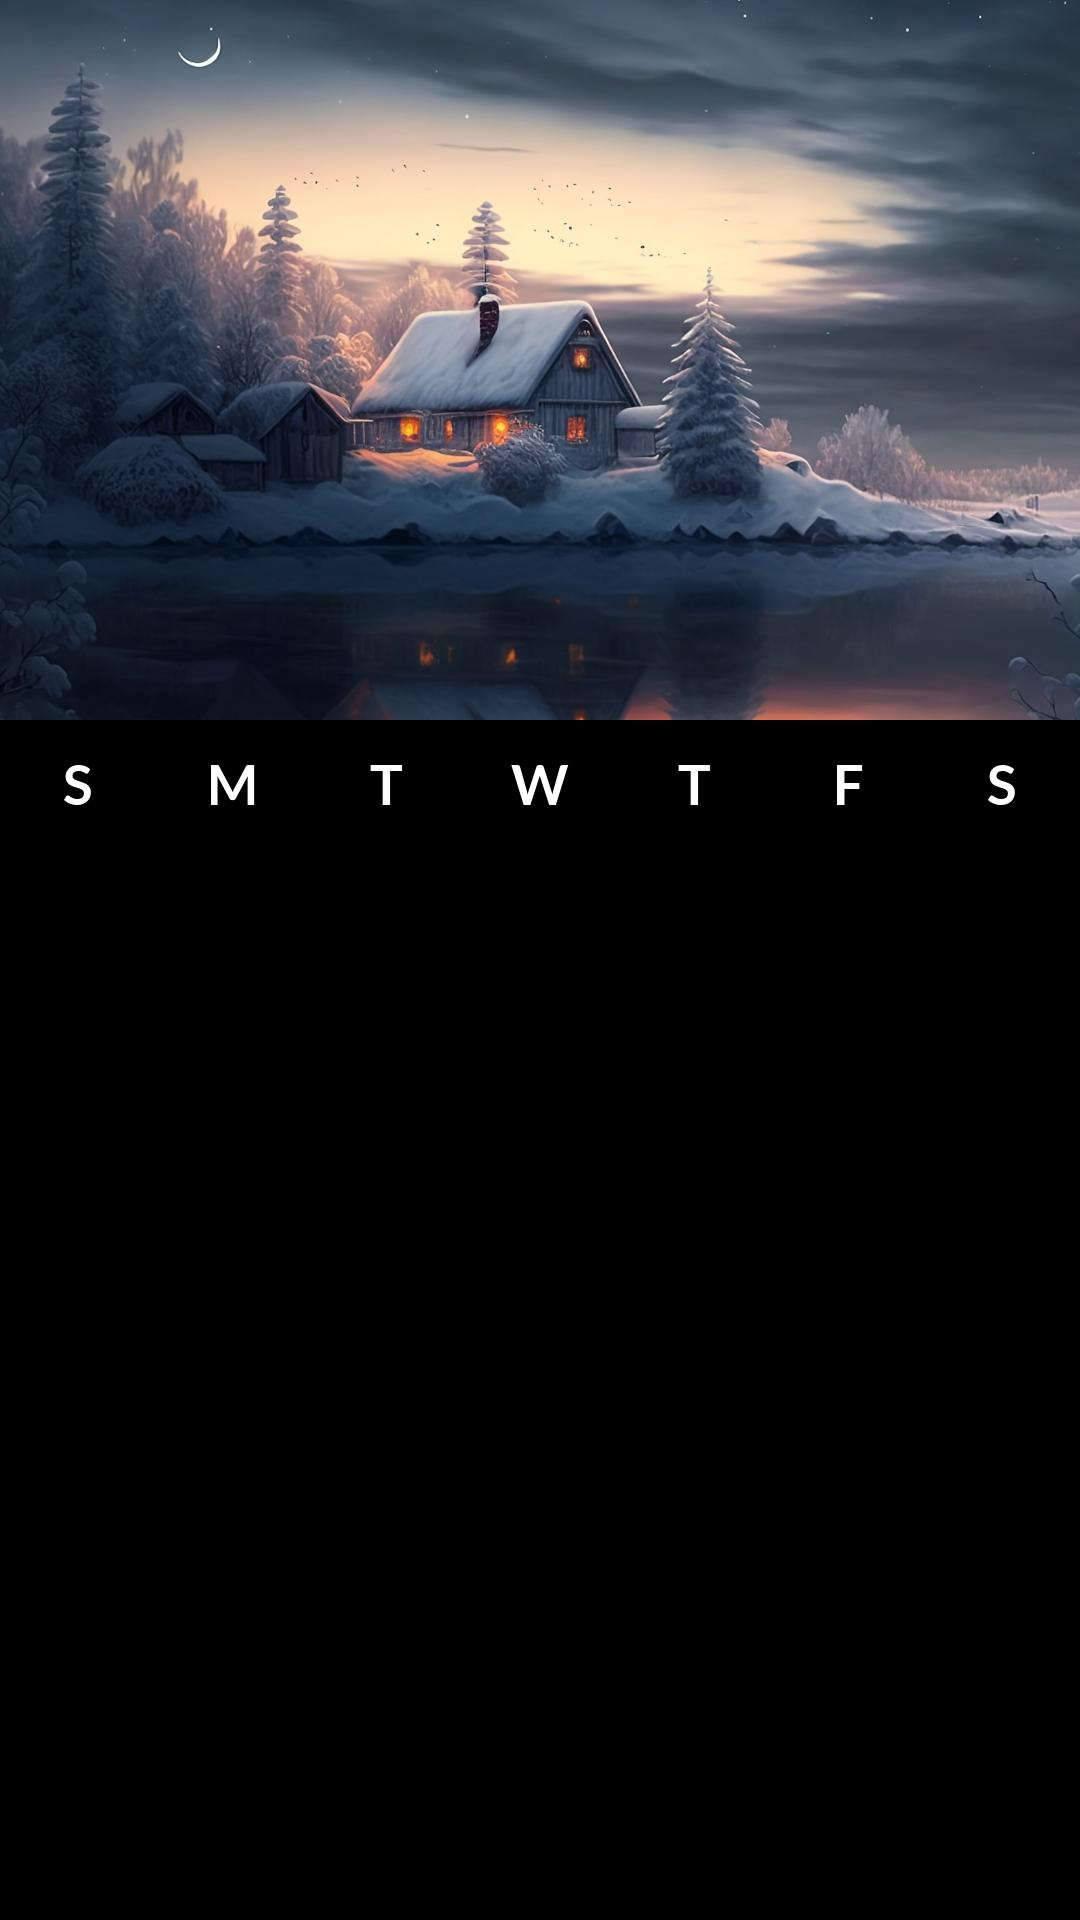
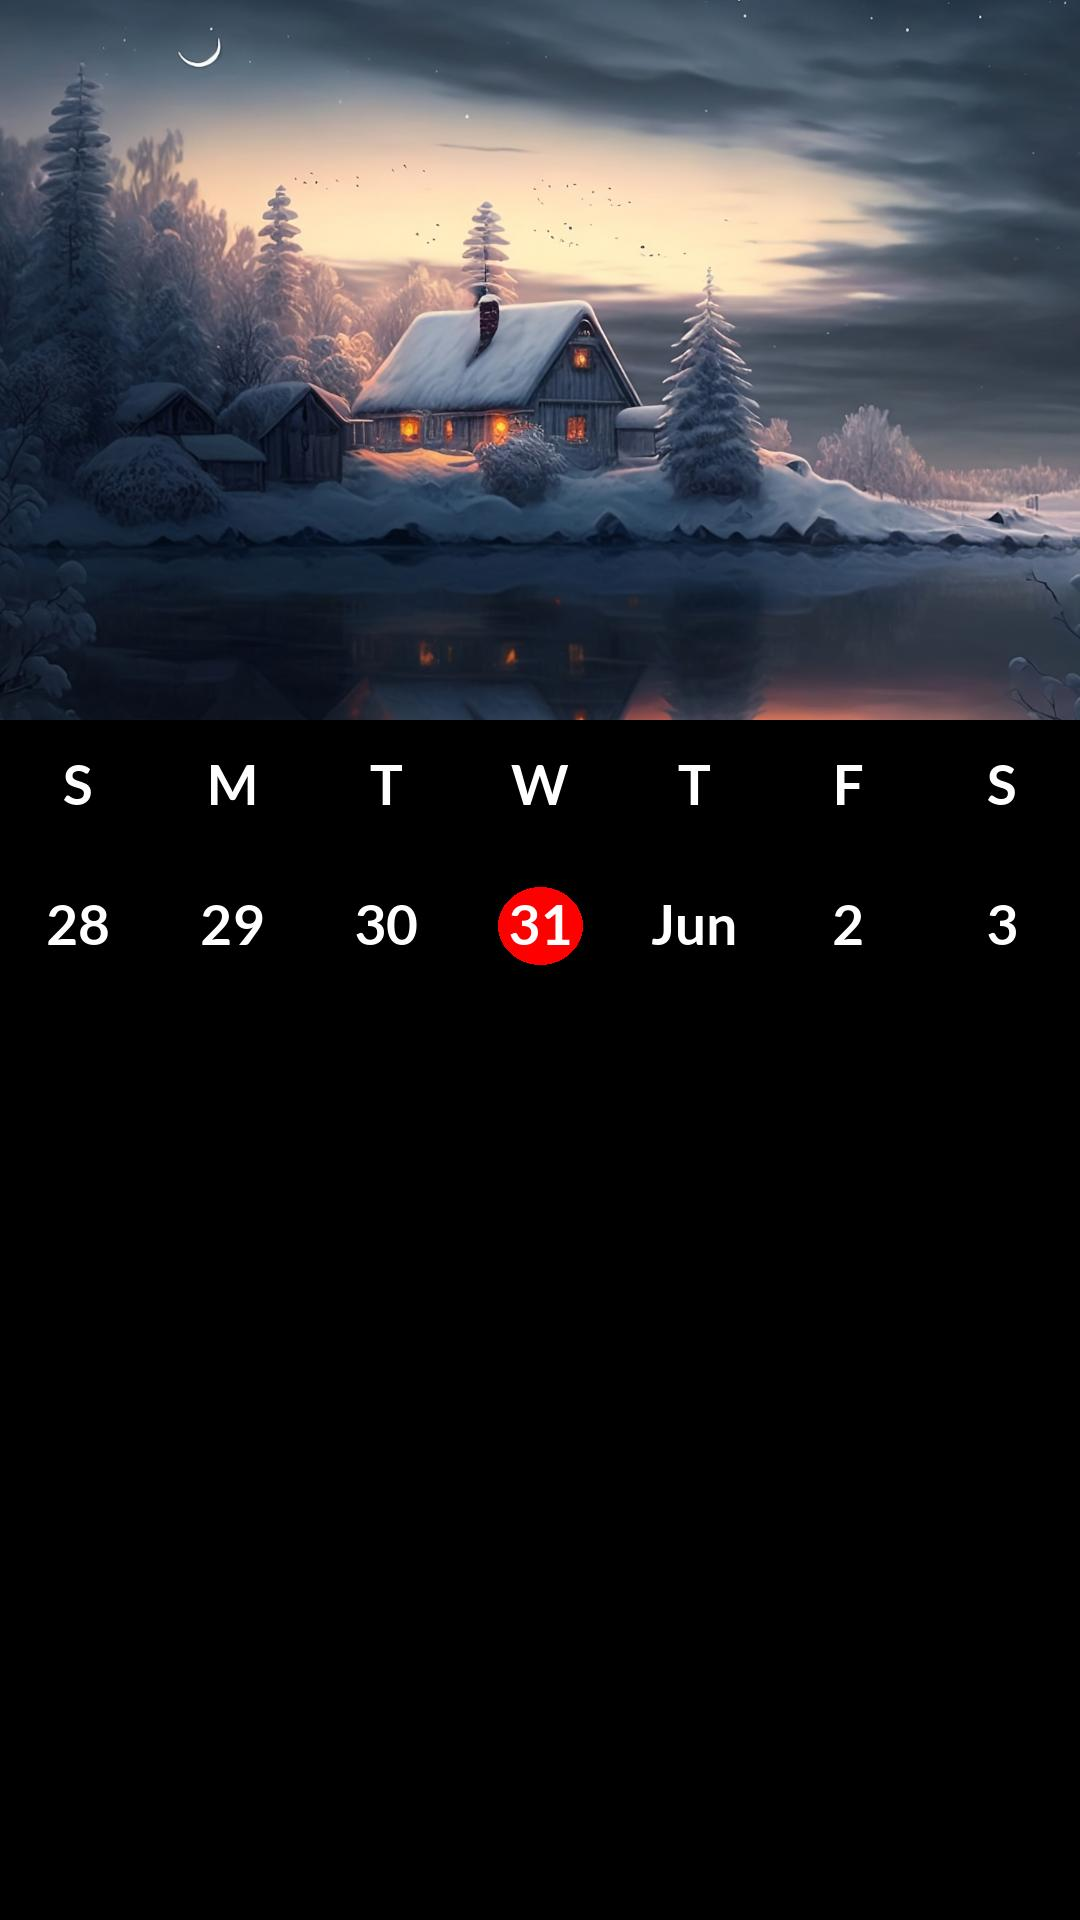
feat: wip - continued work on components

diff --git a/dakboard/dotw.py b/dakboard/dotw.py
@@ -1,13 +1,13 @@
 import os
 from PIL import Image, ImageDraw, ImageFont
 
-def dotw_item(letter, font_name="Lato-Bold.ttf", font_size=55):
+def dotw_item(letter, font_name="Lato-Bold.ttf", font_size=55, width=154, height=140, circle=False):
     """
     Creates the image for the day of the week header
     """
     font_location = os.path.join("fonts", font_name)
     # Create a blank image with the desired size and background color
-    image = Image.new('RGB', (154, 140), (0, 0, 0))
+    image = Image.new('RGB', (width, height), (0, 0, 0))
 
     # Create a drawing context
     draw = ImageDraw.Draw(image)
@@ -21,17 +21,36 @@ def dotw_item(letter, font_name="Lato-Bold.ttf", font_size=55):
 
     # Draw the letter in the center of the image using the custom font
     text_w, text_h = draw.textsize(letter, font=font)
+
+    if circle:
+        # Calculate the coordinates of the bounding box for the circle
+        x1 = center_x - text_w // 2 - 10 
+        y1 = center_y - text_h // 2 - 10 + 7
+        x2 = center_x + text_w // 2 + 10
+        y2 = center_y + text_h // 2 + 10 + 10
+
+        # Draw the circle around the text
+        draw.ellipse((x1, y1, x2, y2), fill=(255, 0, 0))
+        
+        # Outline only
+        # draw.arc((x1, y1, x2, y2), 0, 360, fill=(255, 0, 0))
+
     draw.text((center_x - text_w // 2, center_y - text_h // 2), letter, font=font, fill=(255, 255, 255))
 
     # Save the resulting image
     return image
 
-def dotw_header():
+def dotw_header(items=""):
     """
-    Creates the header row for the days of the week
+    Creates the header row for the days of the week or any other header
+        - Needs to account for Month change
+        - Will have one item with a circle around it
     """
-    letters = "SMTWTFS"
-    images = [dotw_item(letter) for letter in letters]
+    if items == "":
+        letters = "SMTWTFS"
+        images = [dotw_item(letter) for letter in letters]
+    else:
+        images = [dotw_item(letter, circle=circle) for (letter, circle) in items]
 
     total_width = sum(image.width for image in images)
 
@@ -47,7 +66,22 @@ def dotw_header():
     # Save the resulting image
     return result
 
+
+
+
 if __name__ == "__main__":
 
     b = dotw_header()
     b.save("font-header-test.jpg")
+
+    items = [
+        ("28", False),
+        ("29", False),
+        ("30", False),
+        ("31", True),
+        ("Jun", False),
+        ("2", False),
+        ("3", False)
+    ]
+    c = dotw_header(items)
+    c.save("sample.jpg")

diff --git a/dakboard/details.py b/dakboard/details.py
@@ -1,0 +1,81 @@
+#!/usr/bin/env python3
+"""
+Generates Details for a given day
+"""
+import os
+import textwrap
+from PIL import Image, ImageDraw, ImageFont
+
+def all_day_event():
+    """
+    Generates an all day event
+        - Will have a colored background, white text
+    """
+
+def individual_event(text, font="Lato-Light.ttf"):
+    """
+    Draws an event
+        - Orange dot (variable color)
+        - Time 
+        - Text (will need to wrap to second line)
+        - Colors (will be grey if previous day)
+    """
+    max_width = 20
+    line_height = 25
+
+    # Split the text into lines that fit within the maximum width
+    temp = text.split(" ")
+
+    lines = []   
+    line = ""
+    for item in temp:
+        if len(item) + len(line) > max_width:
+            lines.append(line)
+            line = ""
+        line += item + " "
+
+
+    if line != "":
+        lines.append(line)
+
+    # Create a blank image with the desired size and background color
+    
+    image = Image.new('RGB', (160, (len(lines) * line_height)), (0, 0, 0))
+
+    # Create a drawing context
+    draw = ImageDraw.Draw(image)
+
+    # Load the font
+    font_path = os.path.join("fonts", font)
+    font = ImageFont.truetype(font_path, size=15)
+
+    # Draw the orange dot at the start of the image
+    dot_size = 10
+    x = 10
+    y = 14
+    draw.ellipse(
+        (x, y, x + dot_size, y + dot_size), 
+        fill="green"
+    )
+
+
+    
+    # Calculate the position of the first line of text
+    x = 20
+    y = 10
+
+    # Draw the lines of text one by one
+    if lines:
+        lines[0] = "  " + lines[0]
+
+    for line in lines:
+        draw.text((x, y), line, font=font, fill=(255, 255, 255))
+        y += font.getsize(line)[1]
+
+    return image
+
+if __name__ == "__main__":
+
+    text = "10:45a Something that takes a very large amount of text to describe it"
+    a = individual_event(text)
+    a.save("individual-event.jpg")

diff --git a/dakboard/generate.py b/dakboard/generate.py
@@ -19,14 +19,36 @@ def create_image_combine_top(top_image, width=1080, height=1920):
     # Save the resulting image
     return bottom_image
 
+def generate_time():
+    pass
+
+def generate_date():
+    pass
+
+def generate_temperature():
+    pass
+
+def generate_weather_icon():
+    pass
 
 
 if __name__ == "__main__":
     a = create_image_combine_top(os.path.join("design", "test-top.png"))
 
     dotw_header = dotw.dotw_header()
-
     a.paste(dotw_header, (0, 720))
 
+    items = [
+        ("28", False),
+        ("29", False),
+        ("30", False),
+        ("31", True),
+        ("Jun", False),
+        ("2", False),
+        ("3", False)
+    ]
+    first_week = dotw.dotw_header(items)
+
+    a.paste(first_week, (0, 720 + 140))
 
     a.save("result.jpg")
